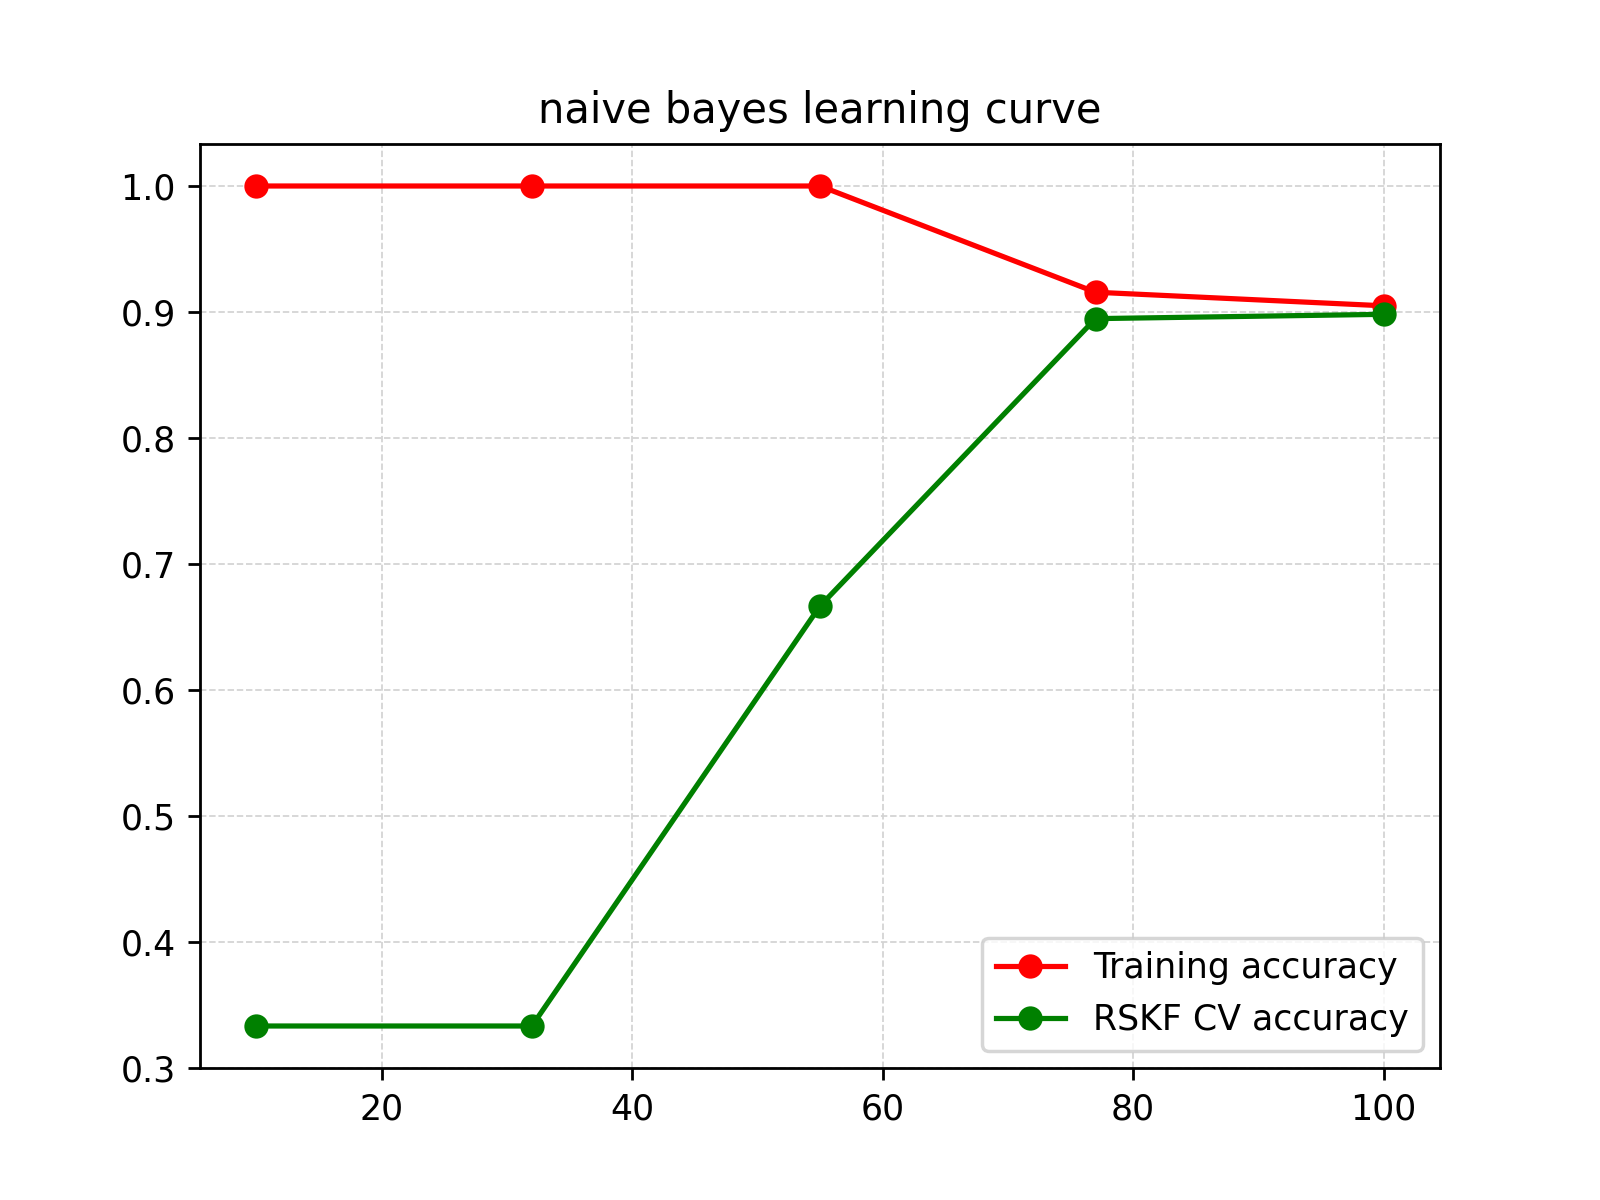
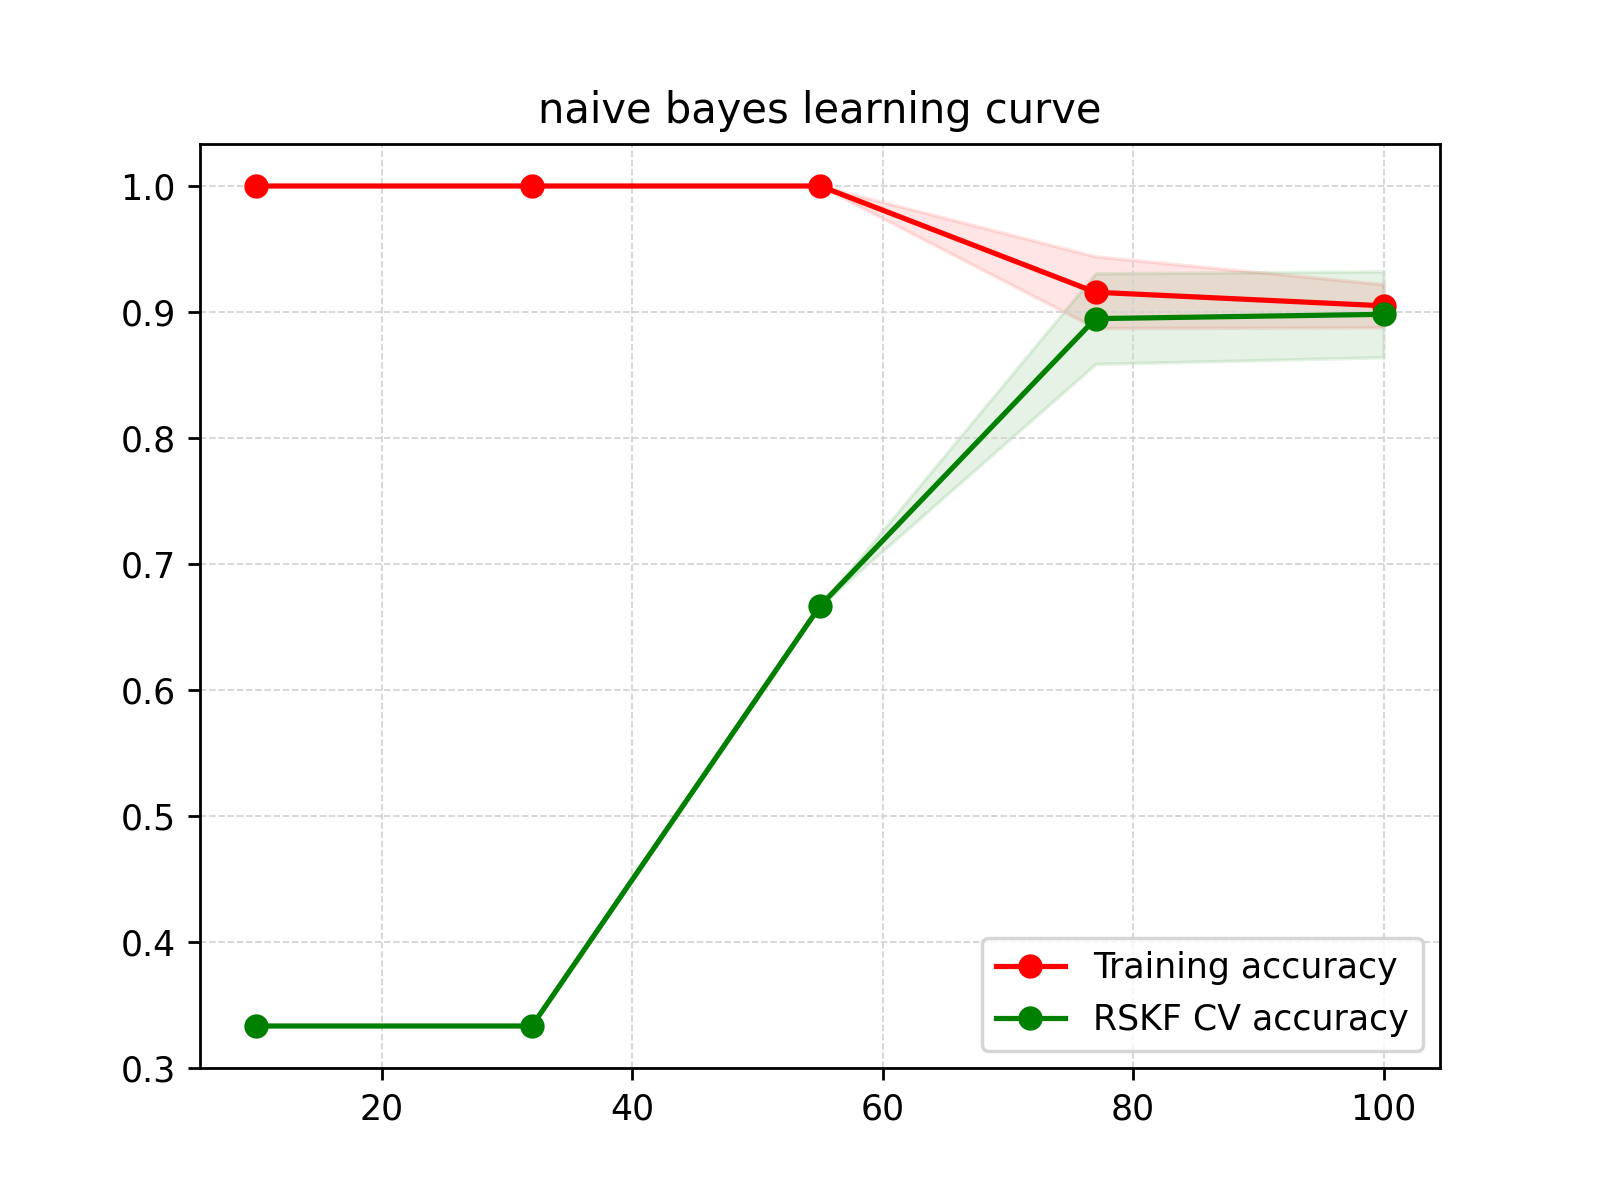
plot also standard deviation of performance

Changed region(s): [[0.5312, 0.1542, 0.875, 0.4625]]

diff --git a/2z_learning_curves.py b/2z_learning_curves.py
@@ -79,6 +79,10 @@ for name, model in sorted(models.items()):
         plt.plot(train_sizes, train_scores_mean, 'o-', color="r", label="Training "+metrics_name)
         plt.plot(train_sizes, test_scores_mean, 'o-', color="g", label="RSKF CV "+metrics_name)
         plt.legend(loc="best")
+        plt.fill_between(train_sizes, train_scores_mean - train_scores_std,
+                         train_scores_mean + train_scores_std, alpha=0.1, color="r")
+        plt.fill_between(train_sizes, test_scores_mean - test_scores_std,
+                         test_scores_mean + test_scores_std, alpha=0.1, color="g")
         plt.grid(color='lightgray', linestyle='--', linewidth=0.5)
         plt.savefig(path_to_plot_dir+name+'_'+metrics_name+'_learning_curve.png', dpi=250)
         plt.clf()
